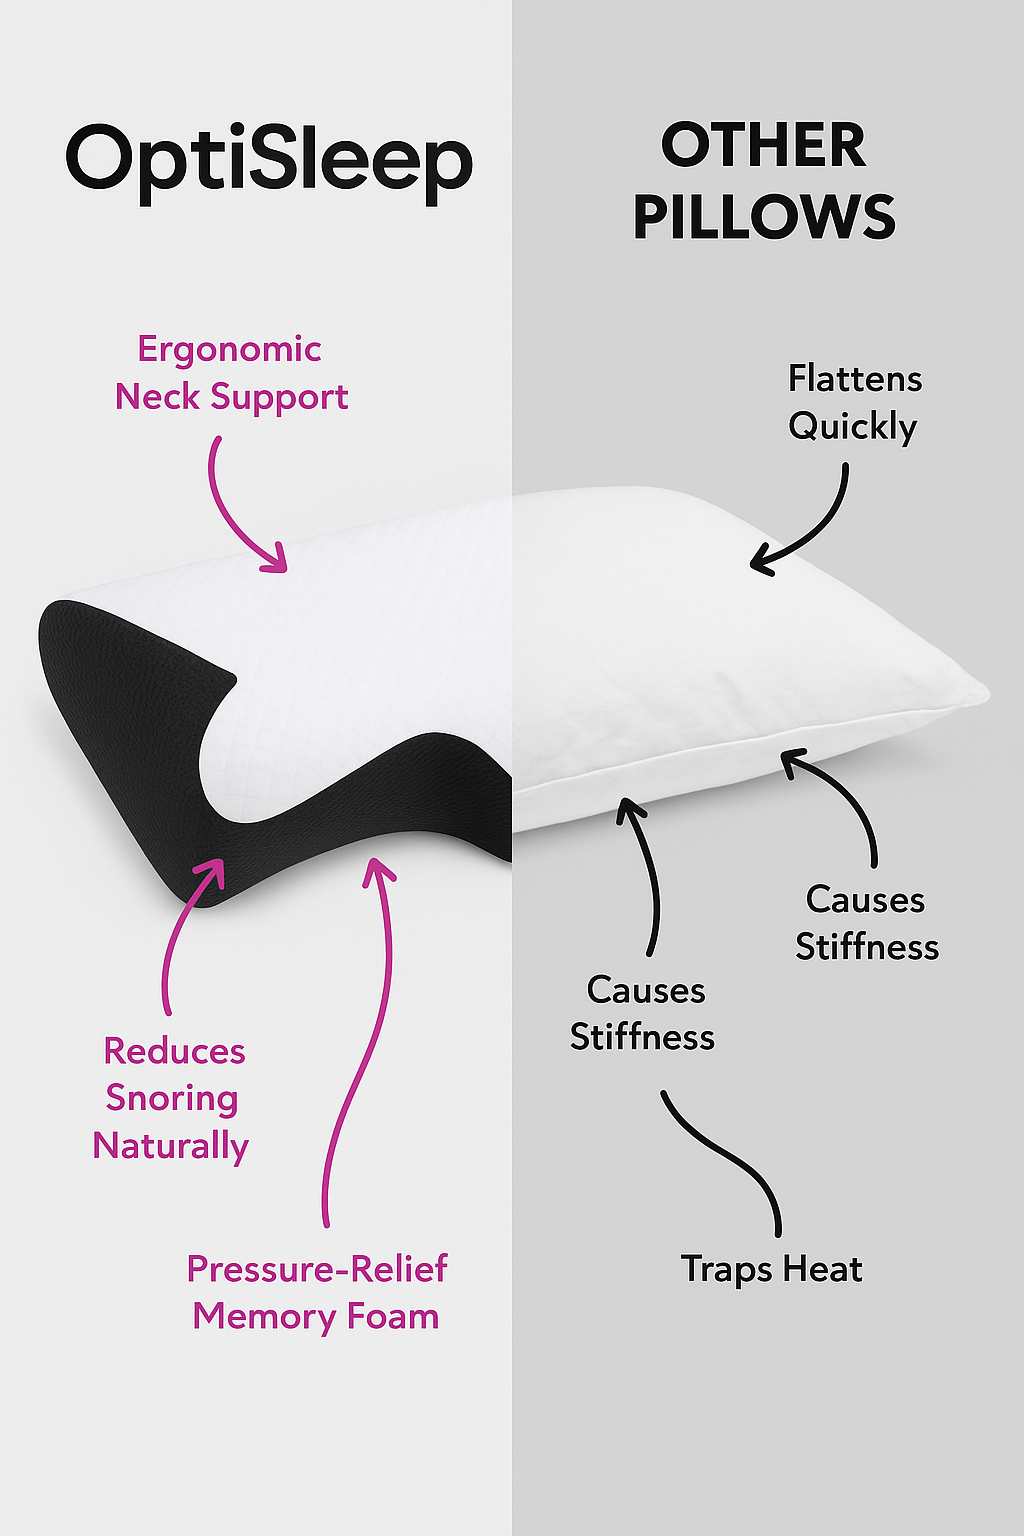
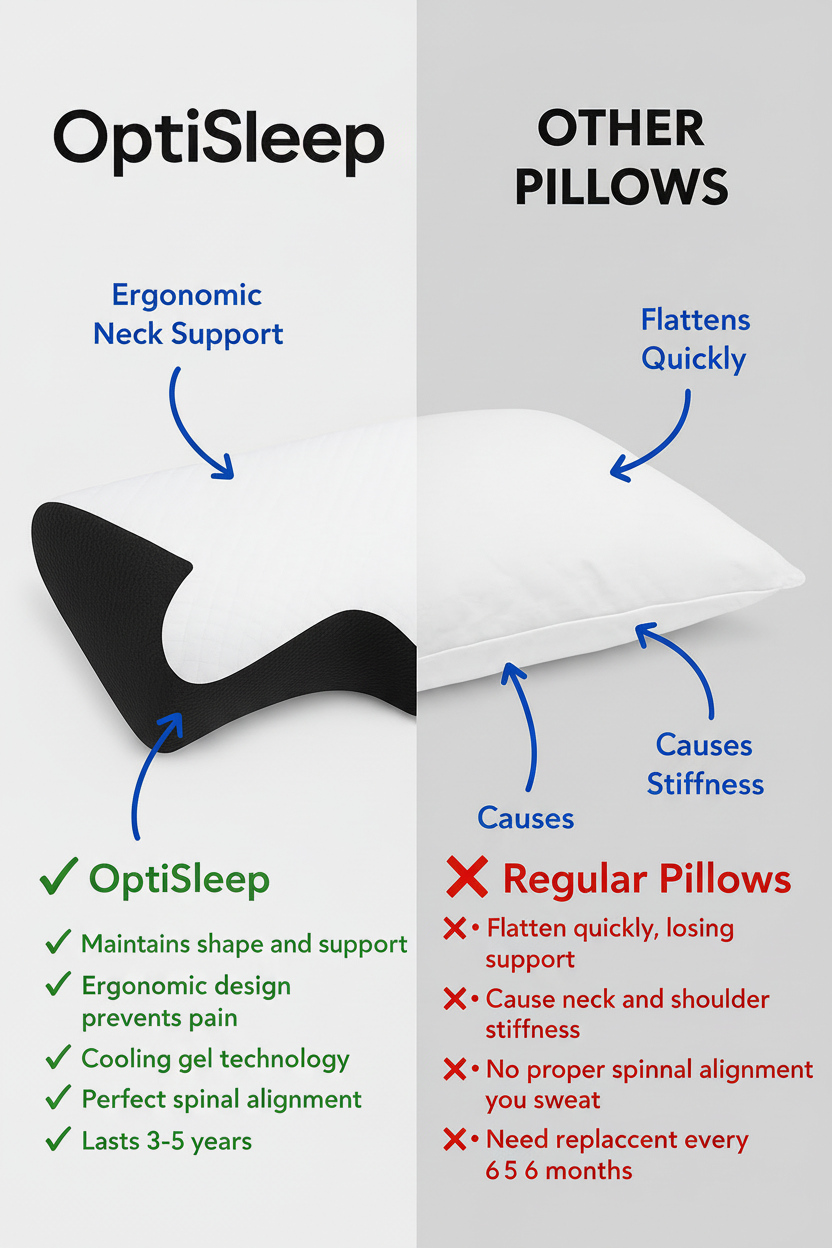
Changes

diff --git a/src/components/Comparison.tsx b/src/components/Comparison.tsx
@@ -12,66 +12,12 @@ export const Comparison = () => {
           </p>
         </div>
         
-        <div className="rounded-xl overflow-hidden shadow-2xl mb-12 max-w-2xl mx-auto">
+        <div className="rounded-xl overflow-hidden shadow-2xl mb-12 max-w-4xl mx-auto">
           <img 
             src={comparisonImage} 
-            alt="OptiSleep pillow comparison showing ergonomic neck support vs regular pillows that cause stiffness" 
+            alt="OptiSleep pillow comparison showing ergonomic neck support vs regular pillows that cause stiffness with detailed benefits" 
             className="w-full"
           />
-        </div>
-
-        <div className="grid md:grid-cols-2 gap-8 max-w-5xl mx-auto mb-12">
-          <div className="bg-green-50 border-2 border-green-500 rounded-lg p-6">
-            <h3 className="text-2xl font-bold mb-4 text-center text-green-700">✓ OptiSleep</h3>
-            <ul className="space-y-3">
-              <li className="flex items-start gap-2">
-                <span className="text-green-600 font-bold mt-1">✓</span>
-                <span>Maintains shape and support</span>
-              </li>
-              <li className="flex items-start gap-2">
-                <span className="text-green-600 font-bold mt-1">✓</span>
-                <span>Ergonomic design prevents pain</span>
-              </li>
-              <li className="flex items-start gap-2">
-                <span className="text-green-600 font-bold mt-1">✓</span>
-                <span>Cooling gel technology</span>
-              </li>
-              <li className="flex items-start gap-2">
-                <span className="text-green-600 font-bold mt-1">✓</span>
-                <span>Perfect spinal alignment</span>
-              </li>
-              <li className="flex items-start gap-2">
-                <span className="text-green-600 font-bold mt-1">✓</span>
-                <span>Lasts 3-5 years</span>
-              </li>
-            </ul>
-          </div>
-
-          <div className="bg-destructive/10 border-2 border-destructive/20 rounded-lg p-6">
-            <h3 className="text-2xl font-bold mb-4 text-center">❌ Regular Pillows</h3>
-            <ul className="space-y-3">
-              <li className="flex items-start gap-2">
-                <span className="text-destructive font-bold mt-1">•</span>
-                <span>Flatten quickly, losing support</span>
-              </li>
-              <li className="flex items-start gap-2">
-                <span className="text-destructive font-bold mt-1">•</span>
-                <span>Cause neck and shoulder stiffness</span>
-              </li>
-              <li className="flex items-start gap-2">
-                <span className="text-destructive font-bold mt-1">•</span>
-                <span>Trap heat, making you sweat</span>
-              </li>
-              <li className="flex items-start gap-2">
-                <span className="text-destructive font-bold mt-1">•</span>
-                <span>No proper spinal alignment</span>
-              </li>
-              <li className="flex items-start gap-2">
-                <span className="text-destructive font-bold mt-1">•</span>
-                <span>Need replacement every 6 months</span>
-              </li>
-            </ul>
-          </div>
         </div>
 
         <div className="rounded-xl overflow-hidden shadow-2xl max-w-3xl mx-auto">
